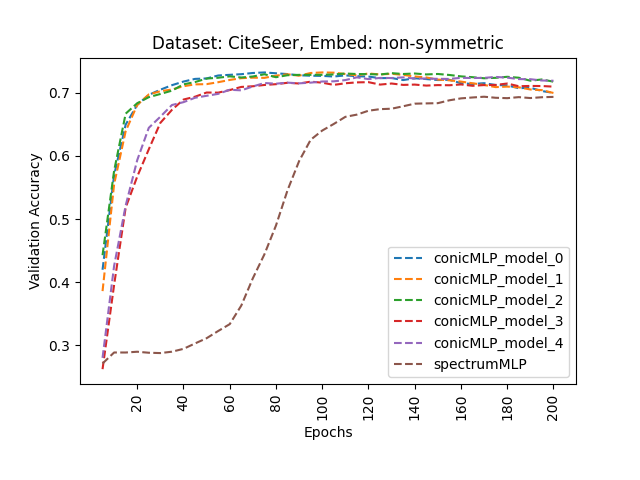
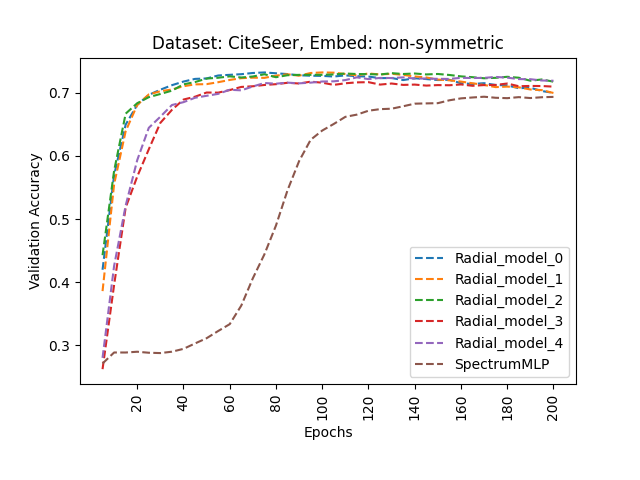
Changed conic names to radial

Changed region(s): [[0.625, 0.5312, 0.875, 0.7812]]

diff --git a/run_truncatedConicMLP_Products.py b/run_truncatedConicMLP_Products.py
@@ -43,11 +43,13 @@ batch_size = 2048
 embedding_list = ["truncated-spectral"]    # "deepwalk can be added"
 coeff_list = [2]
 weight_decay_list = [0]                            # add other real number is needed
-trun_names = ["truncated_model_0","truncated_model_1","truncated_model_2","truncated_model_3", "truncated_model_4"]
+trun_names = ["truncated_model_3", "truncated_model_4"]
+#trun_names = ["truncated_model_0","truncated_model_1","truncated_model_2","truncated_model_3", "truncated_model_4"]
 trun_params = {"truncated_model_0": 2,"truncated_model_1": 8, "truncated_model_2": 32, "truncated_model_3": 128, "truncated_model_4": 512}                            
-model_names = ["model_0","model_1","model_2","model_3","model_4"]
-model_params = [(2,2),(2,2),(4,1),(1,2),(2,1)]                                        
-script_number = 10
+model_names = ["model_0","model_1"]
+#model_names = ["model_0","model_1","model_2","model_3","model_4"]
+#model_params = [(2,2),(2,2),(4,1),(1,2),(2,1)]
+model_params = [(2,2),(2,2)]
 epochResults = epochPerformanceDF()  # detailed of each epoch for train and validation set, both accuracy and loss
 summaryResults = TrainValidationTestDF()  # summary of trained model for train, validation, and test, both accuracy and loss
 
@@ -61,7 +63,6 @@ for ds in dataset_name:
                 highest_validation[coeff] = {}
                 for embed in embedding_list:
                     highest_validation[coeff][embed] = {}
-                    script_number += 1
                     name = f"coeff={coeff}+embed={embed}"
                     print(f"{name} \n")
                     gc.collect()
@@ -126,14 +127,7 @@ for ds in dataset_name:
                         summaryResults = pd.concat([summaryResults, sumDF], ignore_index=True)
 
                         ft = time.time() - gt
-                        ##################################################### saving results
-                        print("saving results...\n")
-                        ans = {"name": name, 'model_name': mdl_name, "model": mdl, "optimizer": opt,
-                                'epochResults': epochDF, 'summaryResults': sumDF,
-                                "t_train": t_train, "t_test": t_test, "t_all": gt,
-                                'iteration_number':iter_num}
-
-                        ##########################################################################################  save the result for each graph
+                        
                         del mdl
 
                     del graph

diff --git a/run_truncatedConicMLP.py b/run_truncatedConicMLP.py
@@ -47,7 +47,6 @@ trun_names = ["truncated_model_0","truncated_model_1","truncated_model_2","trunc
 trun_params = {"truncated_model_0": 2,"truncated_model_1": 8, "truncated_model_2": 32, "truncated_model_3": 128, "truncated_model_4": 512}        
 model_names = ["model_0","model_1","model_2","model_3","model_4"]
 model_params = [(2,2),(2,2),(4,1),(1,2),(2,1)]                                        
-script_number = 10
 epochResults = epochPerformanceDF()  # detailed of each epoch for train and validation set, both accuracy and loss
 summaryResults = TrainValidationTestDF()  # summary of trained model for train, validation, and test, both accuracy and loss
 
@@ -61,7 +60,6 @@ for ds in dataset_name:
                 highest_validation[coeff] = {}
                 for embed in embedding_list:
                     highest_validation[coeff][embed] = {}
-                    script_number += 1
                     name = f"coeff={coeff}+embed={embed}"
                     print(f"{name} \n")
                     gc.collect()
@@ -126,14 +124,7 @@ for ds in dataset_name:
                         summaryResults = pd.concat([summaryResults, sumDF], ignore_index=True)
 
                         ft = time.time() - gt
-                        ##################################################### saving results
-                        print("saving results...\n")
-                        ans = {"name": name, 'model_name': mdl_name, "model": mdl, "optimizer": opt,
-                                'epochResults': epochDF, 'summaryResults': sumDF,
-                                "t_train": t_train, "t_test": t_test, "t_all": gt,
-                                'iteration_number':iter_num}
-
-                        ##########################################################################################  save the result for each graph
+                        
                         del mdl
 
                     del graph

diff --git a/run_truncatedSpectrumMLP_Products.py b/run_truncatedSpectrumMLP_Products.py
@@ -18,7 +18,8 @@ root_dir = "/home/ryanlee/Repositories/AISTATS_2024"
 #########################################################################################################################
 
 dataset_name = ["Products"] # dataset name
-model_name = ["truncated_model_0","truncated_model_1","truncated_model_2","truncated_model_3", "truncated_model_4"]
+#model_name = ["truncated_model_0","truncated_model_1","truncated_model_2","truncated_model_3", "truncated_model_4"]
+model_name = ["truncated_model_4"]
 model_dic = {"truncated_model_0": 2,"truncated_model_1": 8, "truncated_model_2": 32, "truncated_model_3": 128, "truncated_model_4": 512}
 
 ######################################################################################################################### results df
@@ -77,6 +78,7 @@ for ds in dataset_name:
                 graph.dir = root_dir
 
                 for iter_num in range(num_exp):
+                    print("Calculating Truncated Embedding")
                     eigenVec, lambdaVal, runTime = truncated_spectral_embedding(G=graph, root_dir=root_dir, dataset_name=ds, dim=coeff*graph.num_classes, iter=model_dic[mdl_n], amb_dim=None,use_cache=False)
                     graph.embedding_vectors = eigenVec
 
@@ -127,12 +129,6 @@ for ds in dataset_name:
 
                     ft = time.time() - gt
                     ##################################################### saving results
-                    print("saving results...\n")
-                    ans = {"name": name, 'model_name': mdl_name, "model": mdl, "optimizer": opt,
-                            'epochResults': epochDF, 'summaryResults': sumDF,
-                            "t_train": t_train, "t_test": t_test, "t_all": gt,
-                            'iteration_number':iter_num}
-
                     del mdl
 
                 del graph

diff --git a/create_nonTruncatedGraphs.py b/create_nonTruncatedGraphs.py
@@ -4,9 +4,11 @@ import matplotlib.pyplot as plt
 import numpy as np
 root_dir = "/home/ryanlee/Repositories/AISTATS_2024"
 
-dataset_name = ["Cora","CiteSeer","PubMed","WikiCs","Arxiv","Products"]
+dataset_name = ["Cora","CiteSeer","PubMed","WikiCs","Arxiv"]
 
 model_name = ["conicMLP_model_0","conicMLP_model_1","conicMLP_model_2","conicMLP_model_3","conicMLP_model_4","spectrumMLP"]
+
+different_model_names = ["Radial_model_0", "Radial_model_1","Radial_model_2","Radial_model_3","Radial_model_4", "SpectrumMLP"]
 
 embedding_list = ["non-symmetric", "symmetric","deepwalk"]
 
@@ -43,7 +45,7 @@ for dataset in dataset_name:
             all_records = [validation_acc_records,test_acc_records]
             for record_index in range(len(all_records)):
                 for index in range(len(all_records[record_index])):
-                    plt.plot(epochs,all_records[record_index][index],label=model_name[index],linestyle="--")
+                    plt.plot(epochs,all_records[record_index][index],label=different_model_names[index],linestyle="--")
 
                 plt.xticks(condensed_epochs,rotation="vertical")
                 plt.xlabel("Epochs")

diff --git a/run_truncatedSpectrumMLP.py b/run_truncatedSpectrumMLP.py
@@ -125,12 +125,6 @@ for ds in dataset_name:
                     summaryResults = pd.concat([summaryResults, sumDF], ignore_index=True)
 
                     ft = time.time() - gt
-                    ##################################################### saving results
-                    print("saving results...\n")
-                    ans = {"name": name, 'model_name': mdl_name, "model": mdl, "optimizer": opt,
-                            'epochResults': epochDF, 'summaryResults': sumDF,
-                            "t_train": t_train, "t_test": t_test, "t_all": gt,
-                            'iteration_number':iter_num}
 
                     del mdl
 
